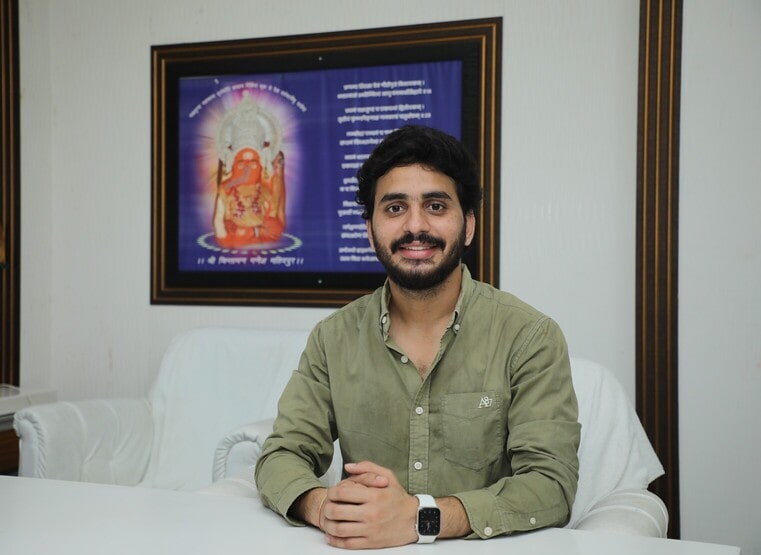
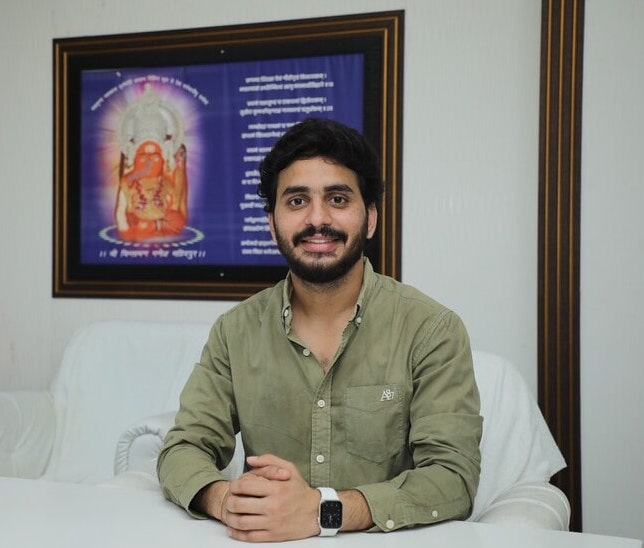
final changes

diff --git a/about.php b/about.php
@@ -18,9 +18,8 @@
             <div class="row justify-content-center align-items-center">
                 <div data-aos="fade-right" class="col-lg-5">
                     <h4>About Gaurik Milk</h4>
-                    <p>Lorem ipsum dolor, sit amet consectetur adipisicing elit. Iste rem tenetur inventore laboriosam pariatur repudiandae velit omnis earum ratione? Quam vitae excepturi sit quisquam dolorum culpa
-                    </p>
-                    <p> unde adipisci assumenda fugiat voluptatum placeat doloremque, deleniti ad eum molestias eos ex quibusdam? Dolorem aspernatur consectetur eligendi id cumque dolores voluptatem ut consequuntur?</p>
+                    <p> At Gaurik, we collect milk from more than seven thousand farmers everyday to process and package it with the help of more than 80 trained personnel in our exceedingly efficient one lakh litre capacity plant which is spread over 5 acres. Our highly standardized products pass through several quality checks before leaving the plant. </p>
+                    <p>We are determined to deliver the best product in the most economical price to our loyal customers.</p>
                 </div>
                 <div data-aos="zoom-in" data-aos-delay="500" class="col-lg-7">
                     <img src="img/company/plant-building.jpg" class="img-fluid curved-border" alt="">
@@ -89,14 +88,14 @@
         <section id="founder">
             <div class="container">
                 <div class="row justify-content-center align-items-center">
-                    <div class="col-lg-6">
+                    <div class="col-lg-7">
                         <div class="founder-text">
                             <h3>Founder's Message</h3>
-                            <p>Lorem ipsum dolor sit amet consectetur adipisicing elit. Dolor repellendus tempora minus nesciunt iste. Commodi eligendi, optio tenetur quod quas illum neque dolorum nesciunt iste adipisci aliquam error minima. Doloribus, esse ratione earum aut sint tempora libero omnis hic iusto ducimus nobis repellat, nam impedit ipsum fugiat odit? Cupiditate, dolore!</p>
+                            <p>Here at Gaurik, we work with the clear objective of providing the best quality products to our highly valuable and esteemed customers. Dairy products are an integral part of our balanced diet as well as our prestigious culture. We have shouldered the responsibility to make available healthy and delicious dairy products at best prices. We believe in transparency, integrity, discipline and commitment. We have pledged to never leave our stakeholders unsatisfied.</p>
                         </div>
                     </div>
-                    <div class="col-lg-6">
-                        <img src="img/placeholder.png" class="img-fluid curved-border" alt="">
+                    <div class="col-lg-5">
+                        <img src="img/company/founder.jpg" class="img-fluid curved-border" alt="">
                     </div>
                 </div>
             </div>
@@ -105,13 +104,13 @@
         <section id="future">
             <div class="container">
                 <div class="row justify-content-center align-items-center">
-                    <div class="col-lg-6">
+                    <div class="col-lg-5">
                         <img src="img/company/future.jpg" class="img-fluid curved-border" alt="">
                     </div>
-                    <div class="col-lg-6">
+                    <div class="col-lg-7">
                         <div class="future-text">
                             <h3>Company's Future</h3>
-                            <p>Lorem ipsum dolor sit amet consectetur adipisicing elit. Dolor repellendus tempora minus nesciunt iste. Commodi eligendi, optio tenetur quod quas illum neque dolorum nesciunt iste adipisci aliquam error minima. Doloribus, esse ratione earum aut sint tempora libero omnis hic iusto ducimus nobis repellat, nam impedit ipsum fugiat odit? Cupiditate, dolore!</p>
+                            <p>My idea is to provide strength to Gaurik in terms of production facility, supply chain management and customer base. I have seen my father working hard for years and not its time for me to assume responsibility. I have pledged to make sure that the best product reaches out to the customer. I wish to make Gaurik an international brand in next 5 years with the help of farmers of Madhya Pradesh. I wish utilize Gaurik’s brand value to revolutionize this sector in order to empower and uplift the farmers of central India.</p>
                         </div>
                     </div>
                 </div>

diff --git a/index.php b/index.php
@@ -79,8 +79,8 @@
             <div class="row justify-content-center align-items-center">
                 <div data-aos="fade-up" class="col-lg-4 mb-5">
                     <h3>The Gaurik Family</h3>
-                    <p>Lorem ipsum dolor sit amet consectetur adipisicing elit. Laudantium dignissimos facere inventore nemo? Fuga, facilis. Illo quisquam sit totam optio!</p>
-                    <p>Lorem ipsum dolor sit amet consectetur adipisicing elit. Rerum delectus quod expedita molestiae recusandae possimus natus alias sit?</p>
+                    <p>At Gaurik, we believe that every employ, distributor, vendor and even each and every animal who has somehow contributed to the final product that is consumed by the consumers, is part of Gaurik Family. The family has managed to stay in dairy business from last 58 years and has shown exponential growth after getting into packaged product business. </p>
+                    <p>The family has exhibited exceptional dedication and hard work to establish one of the most prominent dairy brands of central India.</p>
                     <button class="btn">About Us</button>
                 </div>
                 <div data-aos="zoom-in" class="col-lg-8">
@@ -125,7 +125,7 @@
                     <div data-aos="zoom-in-down" data-aos-delay="500" class="row justify-content-center align-items-center" style="height: 70vh;">
                         <div>
                             <h6>Our commitment</h6>
-                            <h4 class="px-5">At Gaurik Dairy, we aim to be the most trusted source of wholesome, delicious dairy products for every occasion. We never forget how fortunate we are to be invited into your home. And we earn our place by holding ourselves to the highest standards.</h4>
+                            <h4 class="px-5">At Gaurik, We aim to work with complete transparency, honesty, integrity and discipline. We are committed to produce, package and distribute the best quality product to our esteemed customers by deploying best personnel, process and equipment. We are determined to provide employment to the locals and business to the farmers. </h4>
                         </div>
                     </div>
                 </div>

diff --git a/gdc.php b/gdc.php
@@ -17,7 +17,7 @@
         <div class="container">
             <div class="row justify-content-center">
                 <div class="col-lg-8">
-                    <p class="mb-5"> Distribution plays a key role in the growth story. That’s why, Gaurik's distribution centre is located in the heart of Indore and Agra. It’s a one stop destination for all its nearby outlets as well as counter sales. From ghee to curd, all products are easily available with exciting promo offers regularly.</p>
+                    <p class="mb-5"> Almost all quality improvement comes via simplification of design, manufacturing, layout, processes, and procedures. Henceforth, we are determined to continuously improve our delivery system. We understand it’s of paramount importance to reach out to the customer with the right product, at time cost and at right time. Supply Chain Management is the backbone of Dairy Industry. We are proud to introduce our valuable and highly efficient distribution centres. We guarantee our customers effective and speedy delivery. </p>
                 </div>
             </div>
             <div class="centers">
